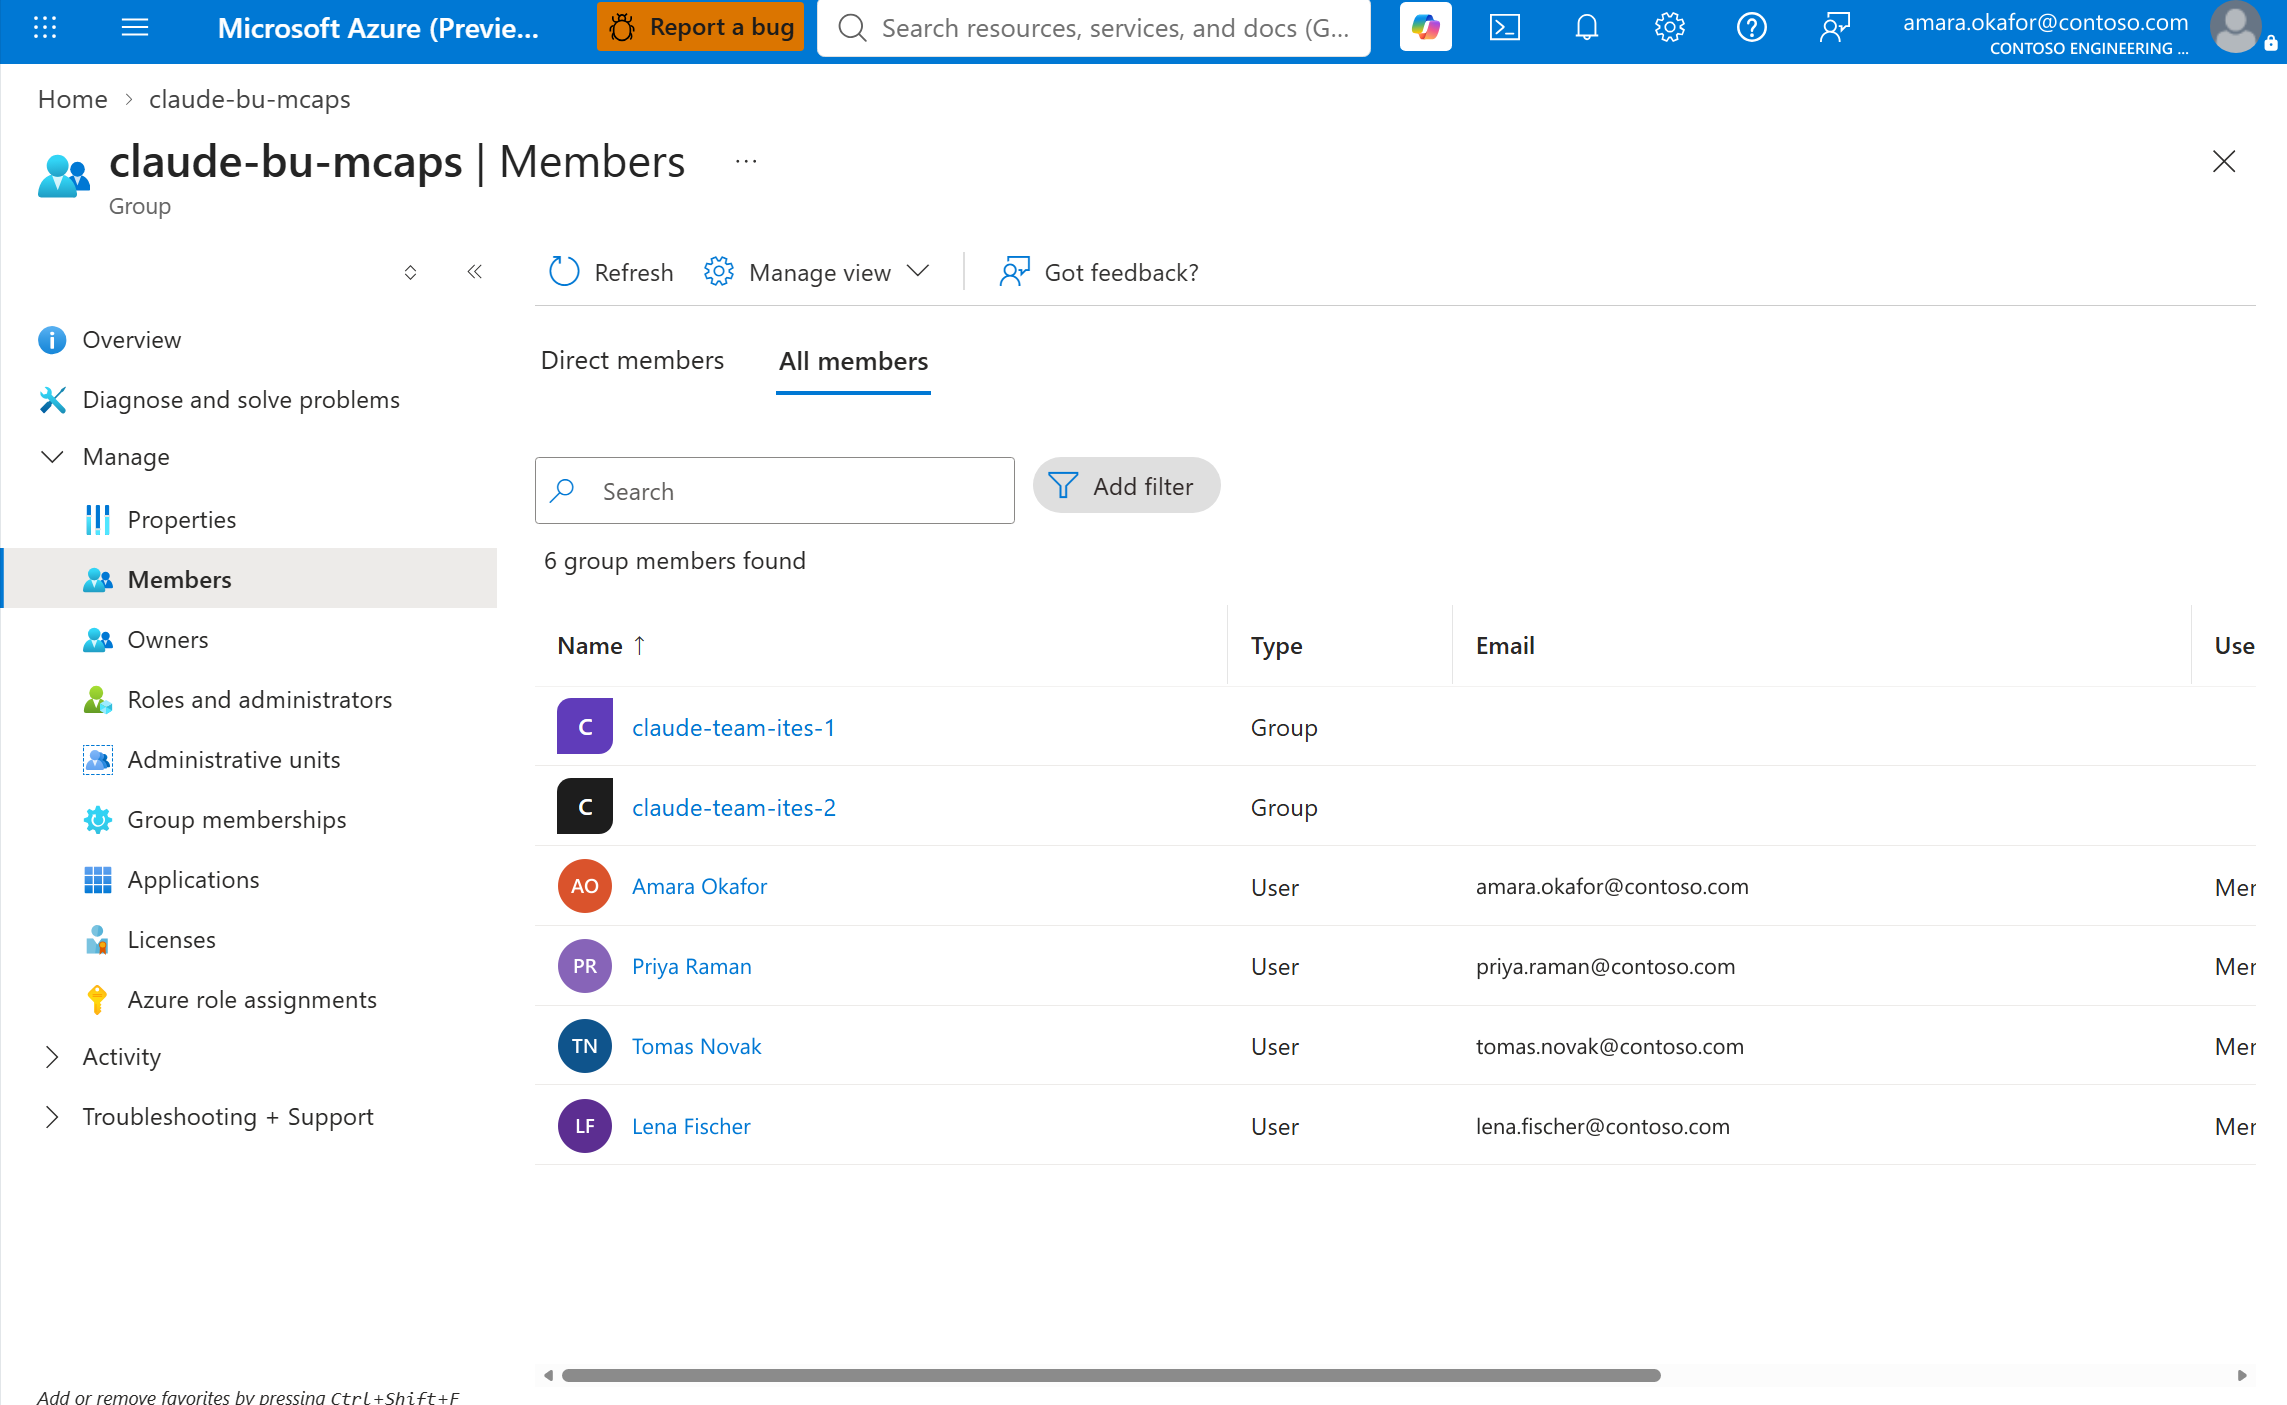
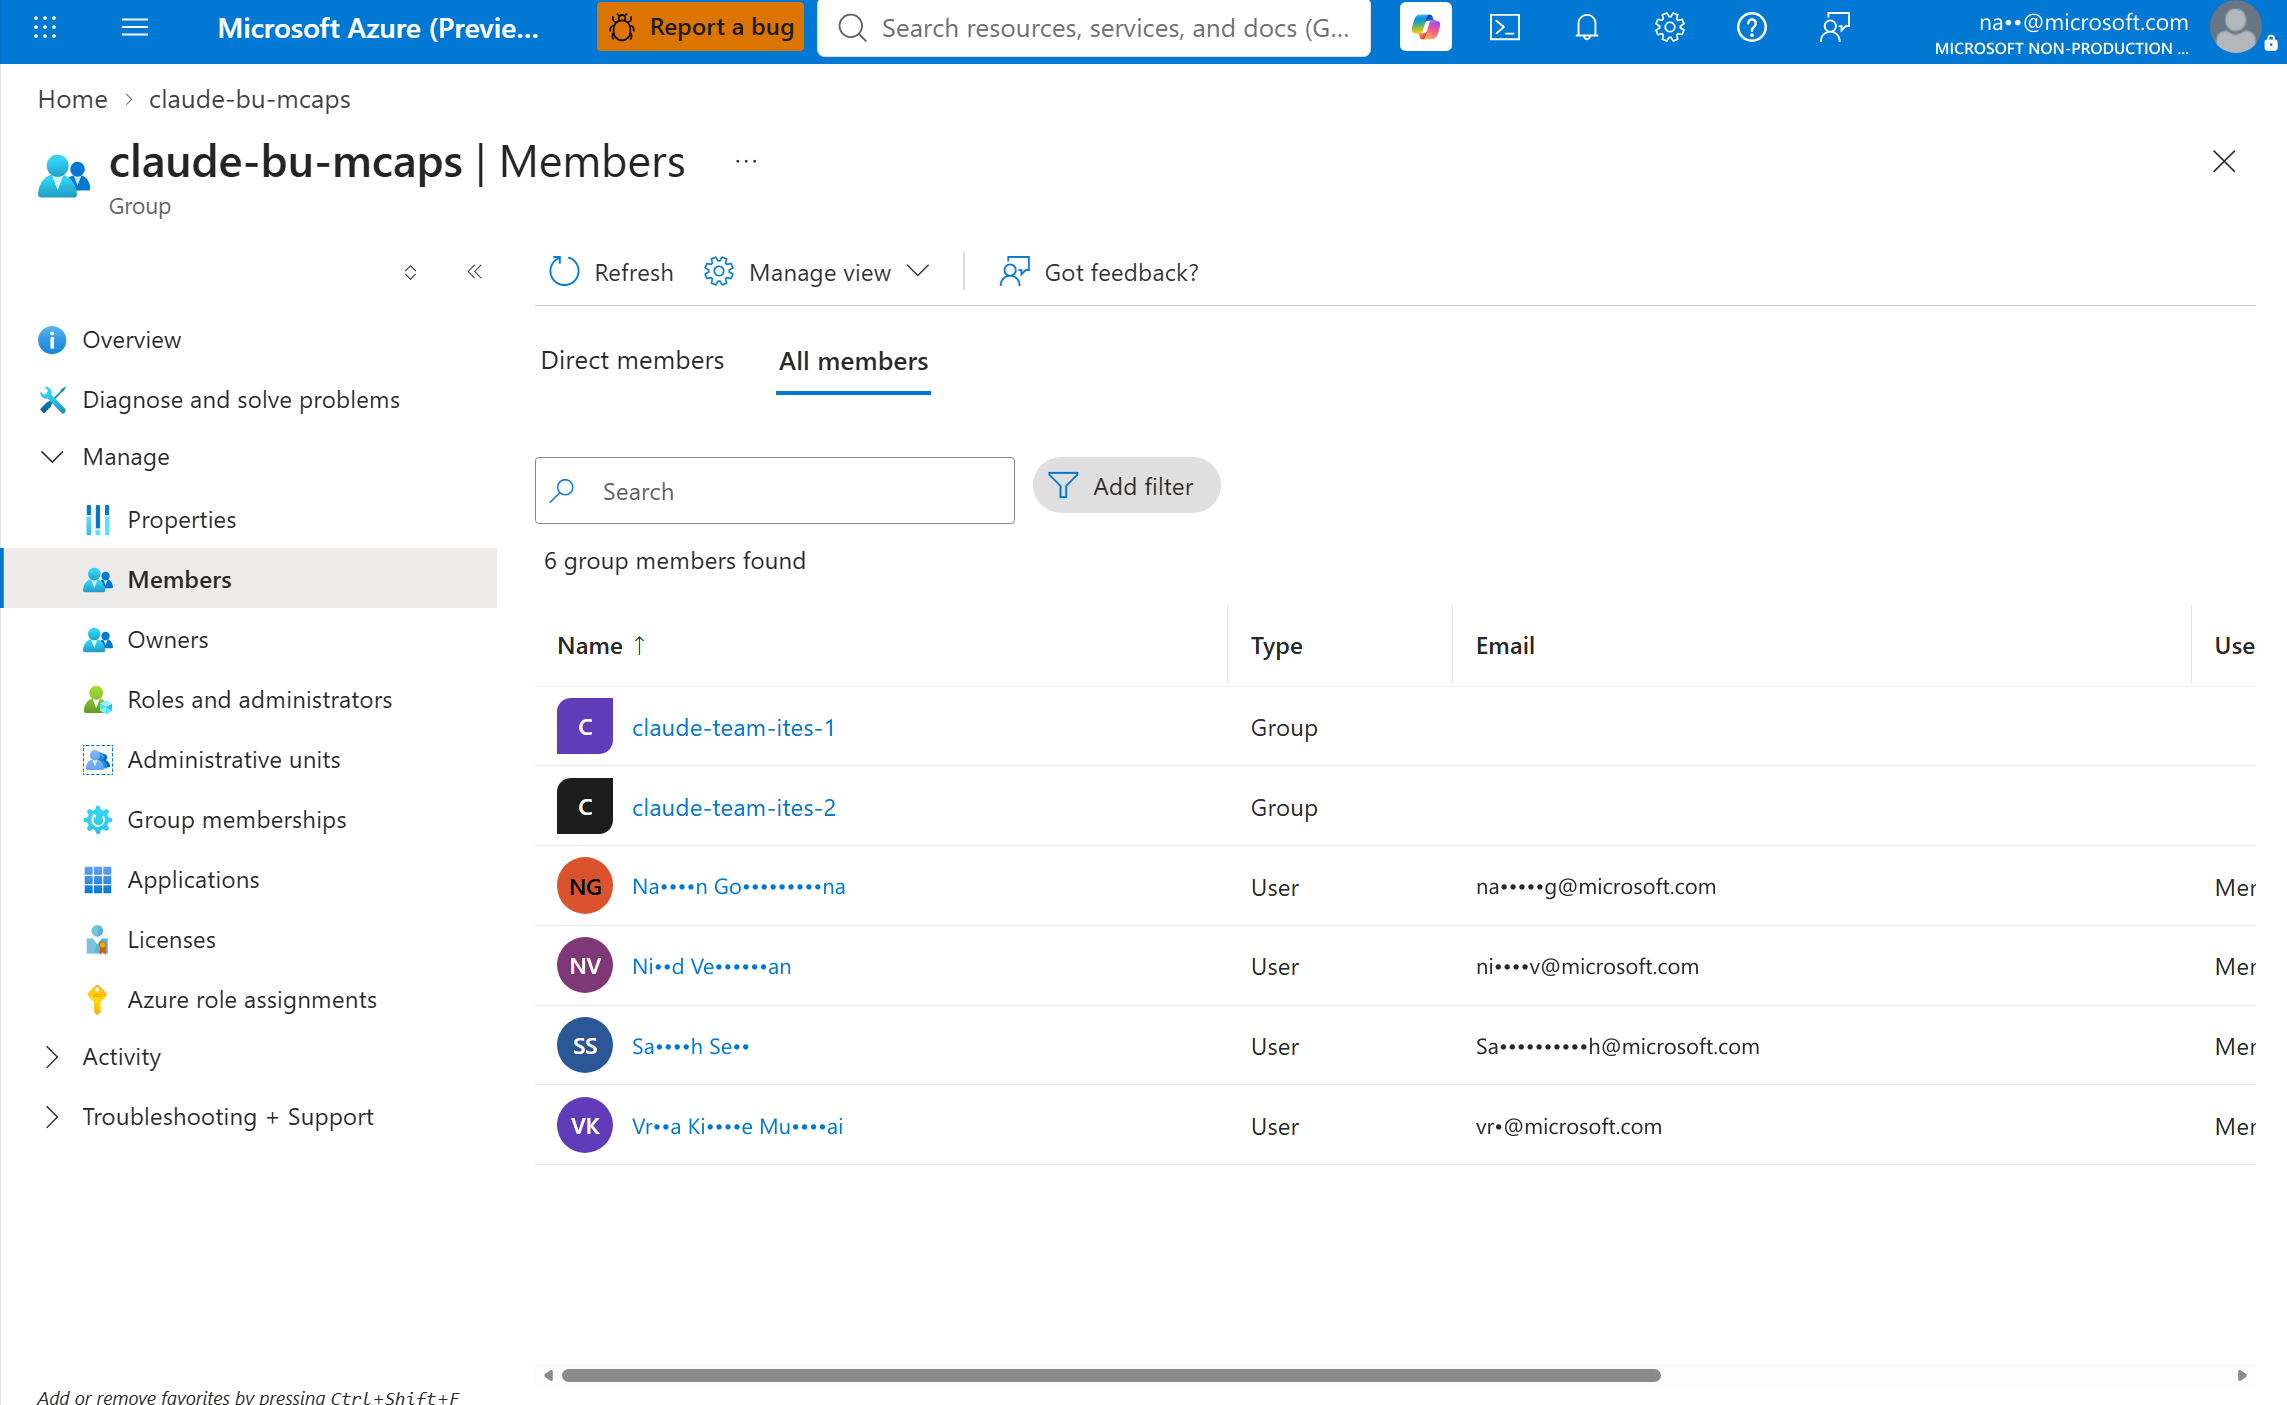
docs: mask the Entra captures in the middle instead of replacing the identities
Substituting Contoso people made the screenshots prove nothing. An accelerator
whose evidence is all placeholders asks the reader to take it on trust, and the
point of showing the portal at all is that this is a working deployment.

So identities are masked rather than replaced: first two characters, bullets,
last two, per name part, with the email local part masked the same way and the
domain left intact. The tenant name stays as well. What that keeps is that the
accounts are visibly real and visibly Microsoft; what it removes is enough to
identify or contact anyone.

The initials avatars are no longer redrawn. They still match the visible first
letters of the masked names, so replacing them only made the picture
inconsistent with itself.

Only the masked strings are committed - the originals exist in the capture,
which is git-ignored, and are not restated in the script. Three new assertions
check that the mask is present, that the domain and tenant survive it, and that
no display name is left whole, alongside the existing checks that no real
address appears. 31 of 31 mutations caught.

The mask is written \u2022 rather than as a literal bullet so the source stays
ASCII, and the assertion matches that escape rather than the character.

Copilot-Session: 1c966b06-b3de-42c0-9254-3a62ae5081bc

diff --git a/docs/BUSINESS-UNITS.md b/docs/BUSINESS-UNITS.md
@@ -78,8 +78,10 @@ transitive view the sync reads:
 The difference between those two tabs is the whole model. Membership is
 maintained on the team, and the business unit gets it by containment.
 
-Names and addresses in these captures are examples; the groups and the structure
-are real.
+These are real accounts in a real Microsoft non-production tenant. Names and
+addresses are masked in the middle — enough removed to stop anyone being
+identified or contacted, enough kept that you can see this is a working
+deployment rather than a mock-up.
 
 These links open the **Members** blade of each group in the reference deployment;
 substitute your own group object ids.
@@ -117,6 +119,9 @@ capture them, `redact-entra.mjs` **exits non-zero and names the files it could
 not handle** rather than skipping them quietly — an unredacted capture sitting
 in a folder is the one that gets copied into the docs by hand with a real name
 still on it.
+
+Only the masked strings are committed. The originals exist only in the capture,
+which is git-ignored.
 
 ### Depth is two levels
 
